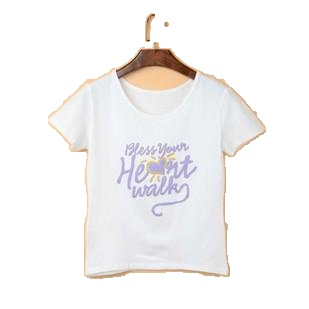
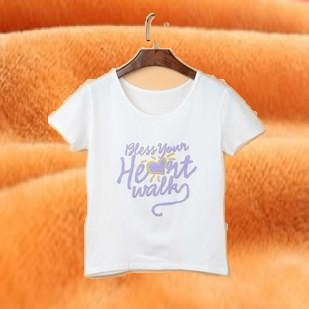
update tf transplant doc

diff --git a/tensorflow_changeclothesbg/object_detection_test.py b/tensorflow_changeclothesbg/object_detection_test.py
@@ -195,6 +195,7 @@ def img_change_bg(image_orig,image_bg,img_erode):
 		#	height 
 		
 		image_resize_bg = cv2.resize(image_bg,(width,height),interpolation=cv2.INTER_CUBIC)
+		
 		image_bg_resize = image_resize_bg[0:height,0:width]
 		#center_x = np.floor(bg_width/2)
 		#center_y = np.floor(bg_height/2)
@@ -205,8 +206,8 @@ def img_change_bg(image_orig,image_bg,img_erode):
 				if img_erode[i,j]!=0:
 					#print("i:%d,j:%d,blur[i,j]:%s\n"%(i,j,dilate[i,j]))
 					image_resize_bg[i,j]=image_orig[i,j]
-				else:
-					image_resize_bg[i,j] = 255
+				#else:
+				#	image_resize_bg[i,j] = 255
 					
 		img_save(image_resize_bg,"pic_bg.jpg")		
 		return image_resize_bg
@@ -232,12 +233,13 @@ def img_change_fg(image,image_cut):
 
 # What model to download.
 MODEL_NAME = 'rfcn_resnet101_clothes_11_23_2017'
+#ssd_mobilenet_v1_clothes_11_22_2017
 #'rfcn_resnet101_clothes_11_23_2017'
 #'rfcn_resnet101_coco_11_06_2017'
 #'ssd_mobilenet_v1_clothes_11_22_2017'  
 #'ssd_mobilenet_v1_coco_11_06_2017' 
 #'best rfcn_resnet101_coco_11_06_2017'  
-#'rfcn_resnet101_coco_11_06_2017'  
+#'faster_rcnn_resnet50_coco_2017_11_08.tar.gz'  
 #ssd_inception_v2_coco_2017_11_08 
 #'ssd_mobilenet_v1_coco_11_06_2017'
 MODEL_FILE = MODEL_NAME + '.tar.gz'
